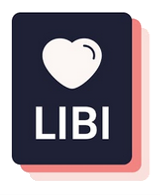
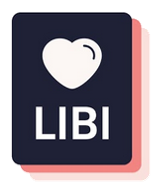
update
revised project descriptions and re-cropped Libi logo to get rid of stray white line on bottom

diff --git a/projects.html b/projects.html
@@ -36,8 +36,8 @@
 						<div class="w3-row-padding w3-margin-top w3-mobile">
 							<div class="w3-third w3-mobile">
 								<div class="w3-round">
-									<h2>General Assembly</h2>
-									<p>Click on the image for more:</p>								  
+									<h2>General Assembly - Fitbit Capstone Project </h2>
+									<p>Project proposal for Fitbit's product strategy:</p>								  
 									<img src="css/images/GA-Fitbit-Logo.png" style="width:60%;cursor:zoom-in" class="w3-hover-opacity"
 									onclick="document.getElementById('modal01').style.display='block'">								  
 									<div id="modal01" class="w3-modal" onclick="this.style.display='none'">
@@ -53,8 +53,8 @@
 							<div class="w3-third w3-mobile">
 								<div class="w3-round">
 								<h2>Cornell Tech 2021 iTrek Ideation Competition</h2>
-								<p>Click on the image for more:</p>								
-								<img src="css/images/Libi-short.png" style="width: 43%; cursor:zoom-in" class="w3-hover-opacity"
+								<p>Product Concept for a chatbot assisting with remote cardiac rehab:</p>								
+								<img src="css/images/Libi-short.png" style="width: 40%; cursor:zoom-in" class="w3-hover-opacity"
 								onclick="document.getElementById('modal02').style.display='block'">								
 									<div id="modal02" class="w3-modal" onclick="this.style.display='none'">
 										<span class="w3-button w3-hover-red w3-xlarge w3-display-topright w3-button w3-display-topright">&times;</span>
@@ -68,8 +68,8 @@
 							</div>
 							<div class="w3-third w3-mobile">
 								<div class="w3-round">
-								<h2>Designing Data Products: Political Ads & Hate Crimes</h2>
-								<p>Click on the image for more:</p>								
+								<h2>Cornell Tech Designing Data Products</h2>
+								<p>Project exploring correlations between Political Ads & Hate Crimes:</p>								
 								<img src="css/images/manhattan-map.png" style="width:52%;cursor:zoom-in" class="w3-hover-opacity"
 								onclick="document.getElementById('modal03').style.display='block'">								
 									<div id="modal03" class="w3-modal" onclick="this.style.display='none'">
